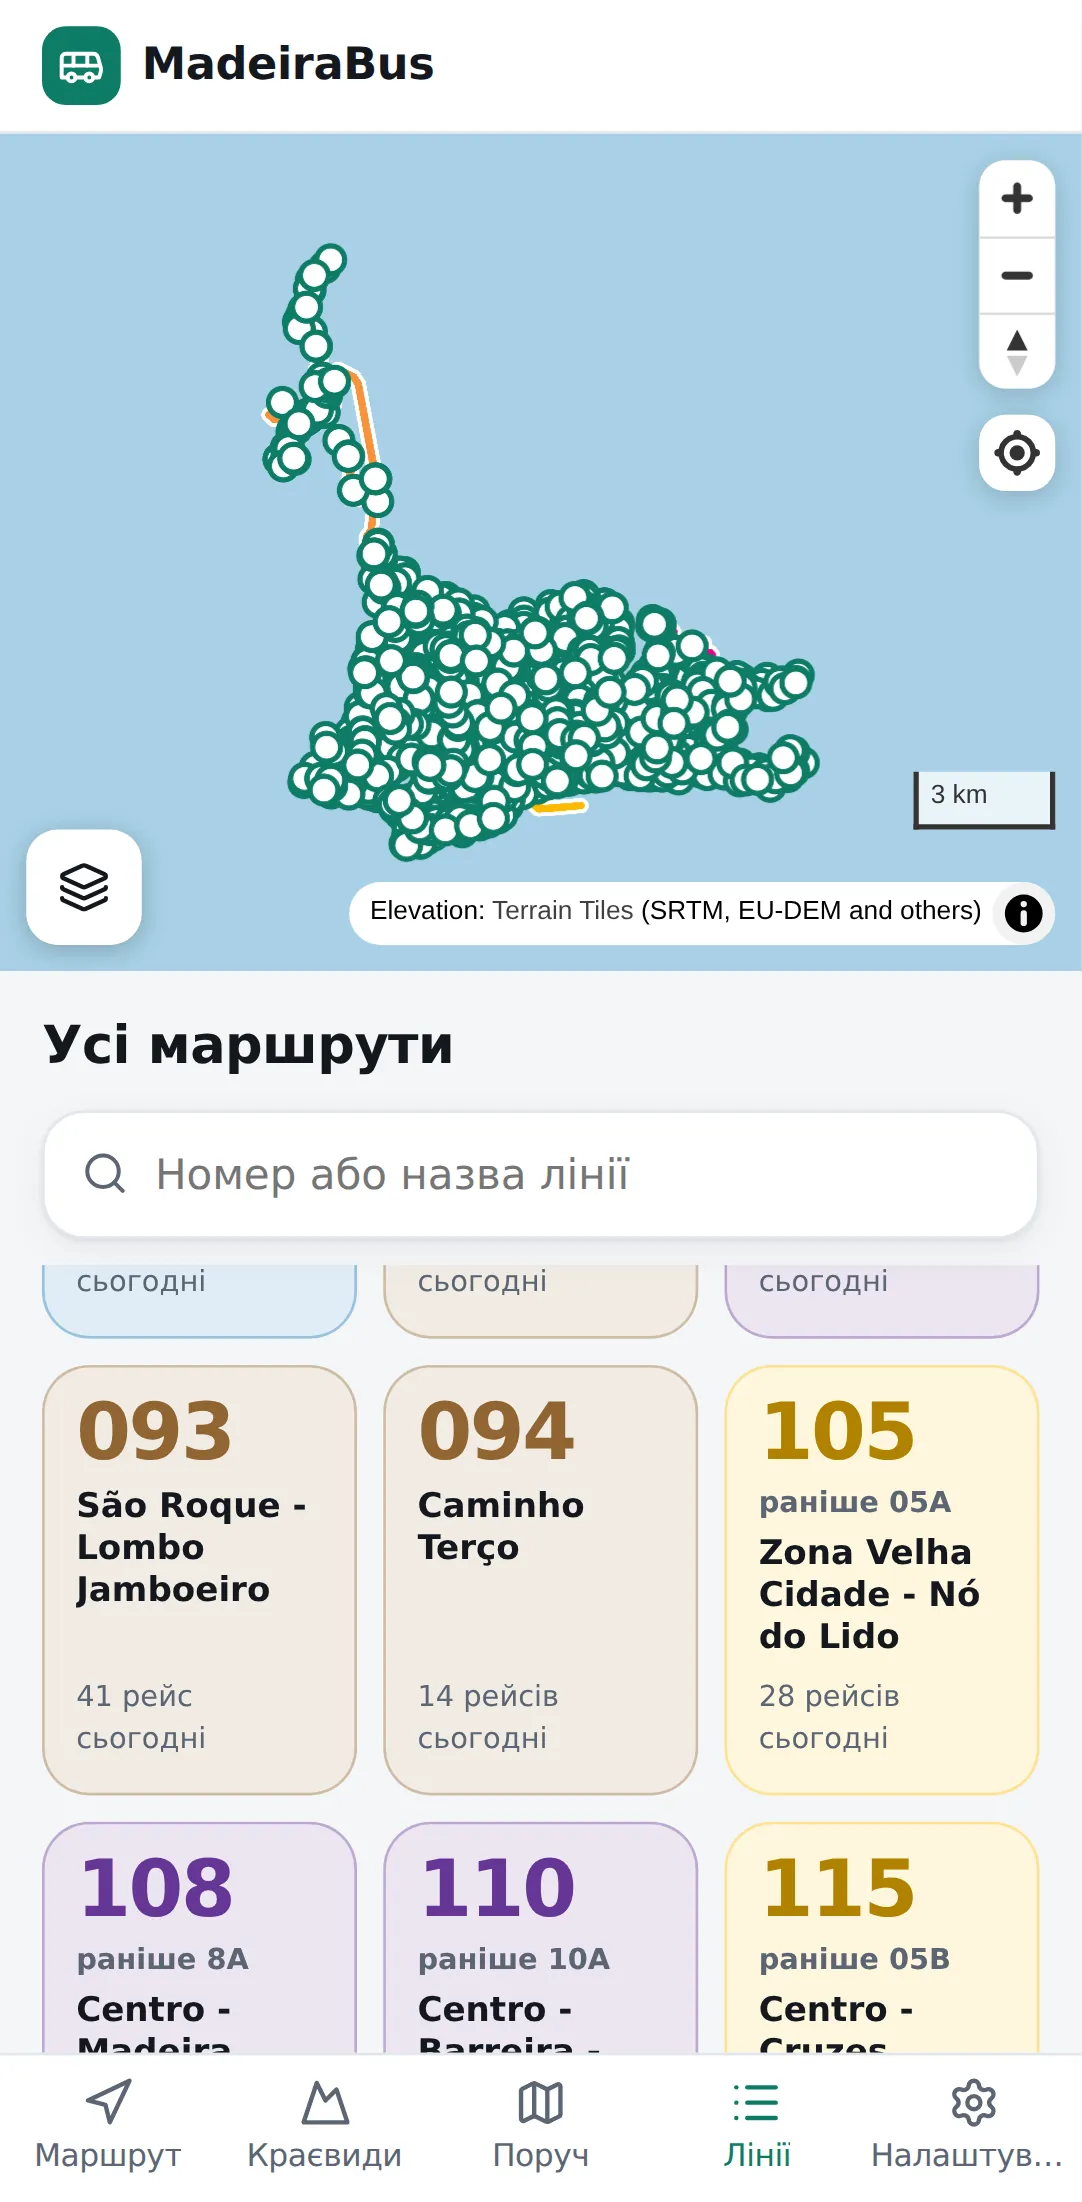
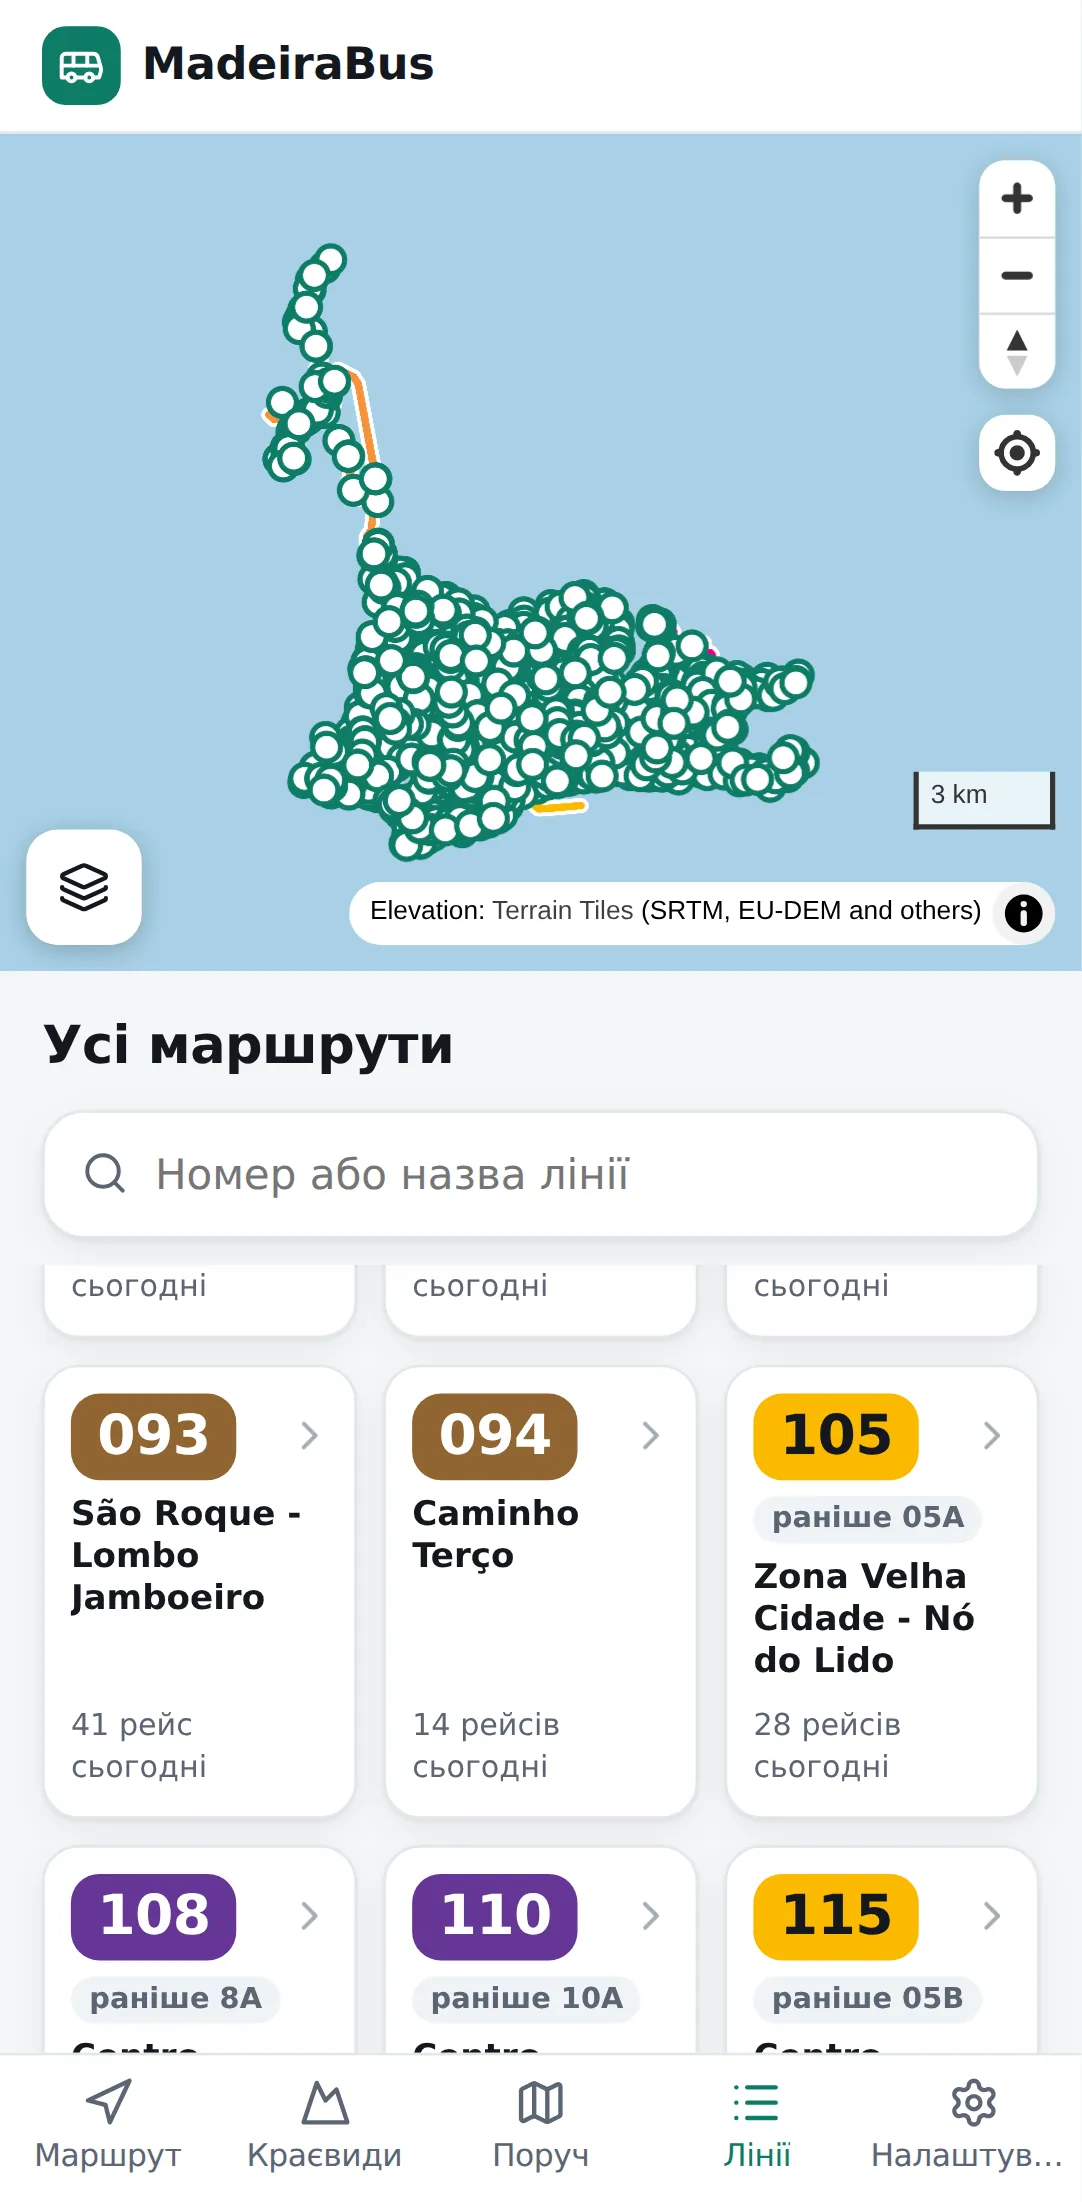
Line tiles and line header as the app's own cards
The lines grid painted each tile in a pale tint of its line's colour,
with the number in a darkened shade of it: beige, cream and lavender
tiles with brown and mustard numbers, unlike anything else in the app.
The tiles and the line screen's header are now the app's white (in the
dark theme, dark) cards, and a line's colour is only in its number
badge, the same badge as in route results and departures.

Also gives the data notice's close button a plain look instead of the
browser's default frame, and refreshes the grid screenshot and the PDF
one, which still showed the footer from before its punctuation fix.

Claude-Session: https://claude.ai/code/session_01STSHyg5upbQ3UKpcnYsWwB

Changed region(s): [[0.0305, 0.5559, 0.976, 0.9573]]

diff --git a/apps/web/src/styles.css b/apps/web/src/styles.css
@@ -357,6 +357,18 @@ input:focus-visible {
   font-size: 17px;
   border-radius: 10px;
 }
+.route-badge--xl {
+  min-width: 54px;
+  padding: 4px 10px;
+  border-radius: 11px;
+  font-size: 21px;
+  line-height: 1.2;
+  letter-spacing: -0.01em;
+}
+.route-badge--xl.route-badge--long {
+  padding-block: 7.5px;
+  font-size: 15px;
+}
 
 .card {
   background: var(--surface);
@@ -430,8 +442,11 @@ input:focus-visible {
   height: 32px;
   display: grid;
   place-items: center;
+  border: 0;
   border-radius: 8px;
+  background: transparent;
   color: var(--muted);
+  cursor: pointer;
 }
 .banner__close:hover {
   background: var(--border);
@@ -1470,62 +1485,84 @@ input[type='time'],
   display: flex;
   flex-direction: column;
   align-items: flex-start;
-  gap: 2px;
+  gap: 6px;
   width: 100%;
   height: 100%;
-  min-height: 112px;
-  padding: 10px 12px 12px;
-  border: 1.5px solid color-mix(in srgb, var(--line) 35%, transparent);
-  border-radius: 18px;
-  background: var(--line-bg);
+  min-height: 118px;
+  padding: 10px 8px 10px 10px;
+  border: 1px solid var(--border);
+  border-radius: var(--radius);
+  background: var(--surface);
+  box-shadow: var(--shadow);
   color: var(--text);
   text-align: left;
   cursor: pointer;
   transition:
     transform 0.12s ease,
-    box-shadow 0.12s ease;
+    box-shadow 0.12s ease,
+    border-color 0.12s ease;
 }
 .line-tile:hover {
   transform: translateY(-1px);
-  box-shadow: 0 6px 18px color-mix(in srgb, var(--line) 22%, transparent);
+  border-color: color-mix(in srgb, var(--brand) 40%, var(--border));
+  box-shadow:
+    0 2px 4px rgb(16 24 40 / 6%),
+    0 10px 24px rgb(16 24 40 / 10%);
 }
 .line-tile:active {
   transform: scale(0.98);
 }
-.line-tile__number {
-  font-size: 30px;
-  line-height: 1.05;
-  font-weight: 900;
-  letter-spacing: -0.03em;
-  color: var(--line-ink);
+.line-tile:focus-visible {
+  outline: 2px solid var(--brand);
+  outline-offset: 2px;
+}
+.line-tile__head {
+  display: flex;
+  align-items: center;
+  justify-content: space-between;
+  gap: 4px;
+  width: 100%;
+}
+.line-tile__go {
+  flex: none;
+  color: var(--muted);
+  opacity: 0.55;
+  transition:
+    transform 0.12s ease,
+    color 0.12s ease,
+    opacity 0.12s ease;
+}
+.line-tile:hover .line-tile__go {
+  color: var(--brand);
+  opacity: 1;
+  transform: translateX(2px);
 }
 .line-tile__was {
-  font-size: 11px;
-  font-weight: 600;
+  padding: 1px 7px;
+  border-radius: 999px;
+  background: var(--surface-2);
   color: var(--muted);
+  font-size: 11px;
+  font-weight: 700;
+  white-space: nowrap;
 }
 .line-tile__name {
   display: -webkit-box;
   -webkit-line-clamp: 3;
   -webkit-box-orient: vertical;
   overflow: hidden;
-  margin-top: 2px;
   font-size: 13px;
-  font-weight: 600;
+  font-weight: 650;
   line-height: 1.25;
 }
 .line-tile__meta {
   margin-top: auto;
-  padding-top: 4px;
-  font-size: 11px;
+  font-size: 11.5px;
   color: var(--muted);
 }
 @media (prefers-color-scheme: dark) {
-  .line-tile {
-    background: var(--line-bg-dark);
-  }
-  .line-tile__number {
-    color: var(--line-ink-dark);
+  .line-tile:hover {
+    box-shadow: 0 10px 24px rgb(0 0 0 / 45%);
   }
 }
 
@@ -1537,17 +1574,25 @@ input[type='time'],
   gap: 12px;
   margin-bottom: 14px;
   padding: 12px 14px 12px 6px;
-  border-radius: 20px;
-  background: var(--line-bg);
-  border: 1.5px solid color-mix(in srgb, var(--line) 30%, transparent);
+  border: 1px solid var(--border);
+  border-radius: 18px;
+  background: var(--surface);
+  box-shadow: var(--shadow);
 }
 .line-hero__number {
   flex: none;
-  font-size: 38px;
-  line-height: 1;
-  font-weight: 900;
-  letter-spacing: -0.03em;
-  color: var(--line-ink);
+  display: flex;
+}
+.line-hero__number .route-badge {
+  min-width: 64px;
+  padding: 6px 12px;
+  border-radius: 13px;
+  font-size: 26px;
+  letter-spacing: -0.02em;
+}
+.line-hero__number .route-badge--long {
+  font-size: 19px;
+  padding-block: 10px;
 }
 .line-hero__text {
   min-width: 0;
@@ -1561,14 +1606,6 @@ input[type='time'],
   margin-top: 2px;
   font-size: 13px;
   color: var(--muted);
-}
-@media (prefers-color-scheme: dark) {
-  .line-hero {
-    background: var(--line-bg-dark);
-  }
-  .line-hero__number {
-    color: var(--line-ink-dark);
-  }
 }
 .segmented--stack {
   display: flex;

diff --git a/apps/web/src/views/LineDetail.tsx b/apps/web/src/views/LineDetail.tsx
@@ -1,10 +1,10 @@
-import { useMemo, useState, type CSSProperties, type ReactNode } from 'react';
+import { useMemo, useState, type ReactNode } from 'react';
 import { ArrowLeft, Download, Loader2, Printer, Share2 } from 'lucide-react';
 import { stopDepartures } from '@madeirabus/engine';
 import { HourTable } from '../components/HourTable.tsx';
 import { useMapContent } from '../components/mapContext.tsx';
+import { RouteBadge } from '../components/RouteBadge.tsx';
 import { useI18n } from '../i18n.ts';
-import { lineColors } from '../lib/color.ts';
 import { canPrint, canShareFiles, printPdf, saveFile, shareFile } from '../lib/files.ts';
 import { clock, longDate } from '../lib/format.ts';
 import { lineDirections, lineOf } from '../lib/lines.ts';
@@ -108,7 +108,7 @@ export function LineDetail({ routeIndex }: { routeIndex: number }) {
 
   return (
     <div className="line-detail">
-      <div className="line-hero" style={lineColors(`#${line.color}`) as CSSProperties}>
+      <div className="line-hero">
         <button
           type="button"
           className="icon-button line-hero__back"
@@ -117,7 +117,9 @@ export function LineDetail({ routeIndex }: { routeIndex: number }) {
         >
           <ArrowLeft size={20} />
         </button>
-        <span className="line-hero__number">{line.short}</span>
+        <span className="line-hero__number">
+          <RouteBadge route={line} size="xl" />
+        </span>
         <div className="line-hero__text">
           <h2 className="line-hero__name">{line.long}</h2>
           <div className="line-hero__meta">

diff --git a/apps/web/src/views/LinesView.tsx b/apps/web/src/views/LinesView.tsx
@@ -1,9 +1,9 @@
-import { useMemo, useState, type CSSProperties } from 'react';
-import { Search, X } from 'lucide-react';
+import { useMemo, useState } from 'react';
+import { ChevronRight, Search, X } from 'lucide-react';
 import { madeiraNow } from '@madeirabus/engine';
 import { useMapContent } from '../components/mapContext.tsx';
+import { RouteBadge } from '../components/RouteBadge.tsx';
 import { useI18n } from '../i18n.ts';
-import { lineColors } from '../lib/color.ts';
 import { lineGroups, lineMatches } from '../lib/lines.ts';
 import { networkContent } from '../lib/mapContent.ts';
 import { navigate, type Route } from '../lib/router.ts';
@@ -81,10 +81,12 @@ export function LinesView({ route }: { route: Route }) {
                     <button
                       type="button"
                       className="line-tile"
-                      style={lineColors(`#${r.color}`) as CSSProperties}
                       onClick={() => navigate(`lines/${main}`)}
                     >
-                      <span className="line-tile__number">{r.short}</span>
+                      <span className="line-tile__head">
+                        <RouteBadge route={r} size="xl" />
+                        <ChevronRight size={18} className="line-tile__go" aria-hidden />
+                      </span>
                       {r.formerly && (
                         <span className="line-tile__was">
                           {t.t('lines.formerly', { n: r.formerly })}

diff --git a/apps/web/src/lib/color.ts b/apps/web/src/lib/color.ts
@@ -57,27 +57,3 @@ export function inkOn(hex: string, bg: string, ratio = 4.5): string {
   }
   return towards === 0 ? DARK : WHITE;
 }
-
-/**
- * CSS custom properties that paint something in a line's colour: a light
- * tint behind it and the colour itself, darkened or lightened just enough to
- * read as text on that tint, for the light and the dark theme.
- */
-export function lineColors(hex: string): Record<string, string> {
-  const light = tint(hex, 0.13);
-  const dark = mix(hex, '#161B22', 0.22);
-  return {
-    '--line': hex,
-    '--line-bg': light,
-    '--line-ink': inkOn(hex, light, 3.2),
-    '--line-bg-dark': dark,
-    '--line-ink-dark': inkOn(hex, dark, 3.2),
-  };
-}
-
-/** `a` mixed into `b`: 0 is `b`, 1 is `a`. */
-function mix(a: string, b: string, amount: number): string {
-  const ca = channels(a);
-  const cb = channels(b);
-  return toHex(cb.map((v, i) => v + (ca[i]! - v) * amount));
-}

diff --git a/apps/web/src/components/RouteBadge.tsx b/apps/web/src/components/RouteBadge.tsx
@@ -1,11 +1,18 @@
 import type { BRoute } from '@madeirabus/engine';
 import { readableOn } from '../lib/color.ts';
 
-export function RouteBadge({ route, size = 'md' }: { route: BRoute; size?: 'sm' | 'md' | 'lg' }) {
+interface Props {
+  route: BRoute;
+  size?: 'sm' | 'md' | 'lg' | 'xl';
+}
+
+export function RouteBadge({ route, size = 'md' }: Props) {
   const bg = `#${route.color}`;
+  // Names rather than numbers ("Aerobus") get a smaller type in the large sizes.
+  const long = route.short.length > 4 ? ' route-badge--long' : '';
   return (
     <span
-      className={`route-badge route-badge--${size}`}
+      className={`route-badge route-badge--${size}${long}`}
       style={{ background: bg, color: readableOn(bg, `#${route.text}`) }}
       title={route.formerly ? `${route.long} (${route.formerly})` : route.long}
     >
